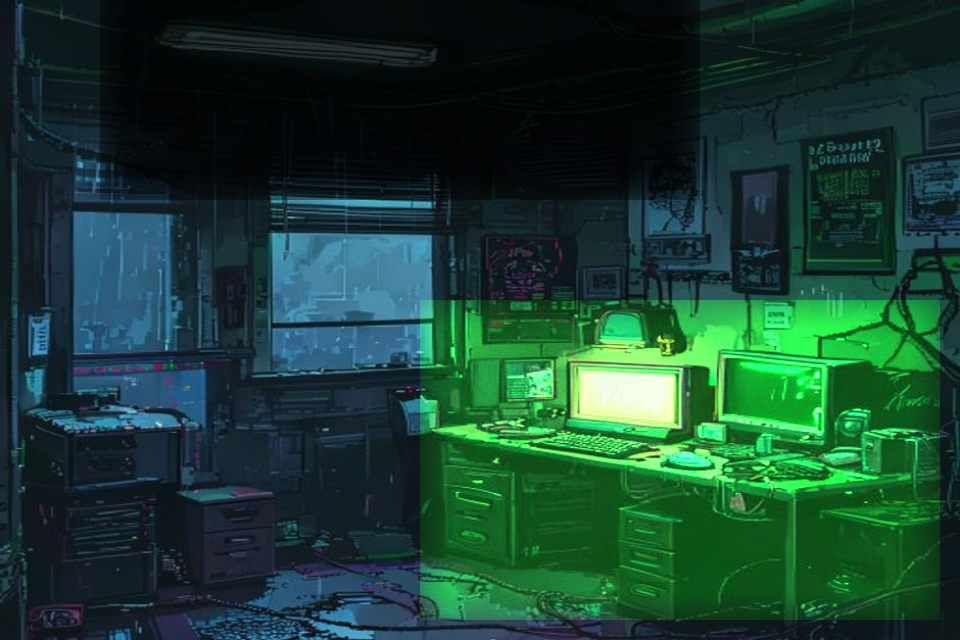
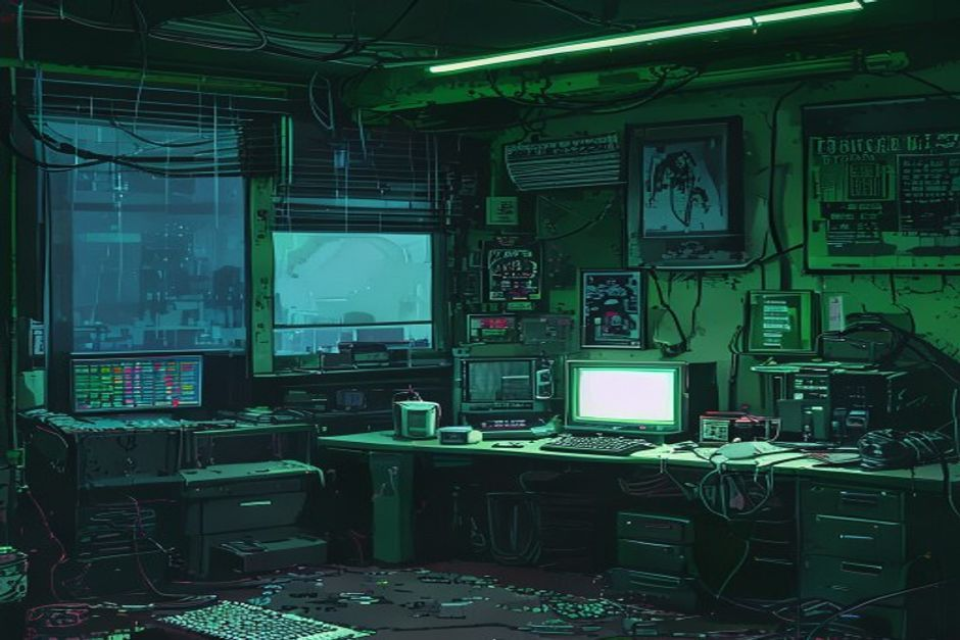
fix: stronger keyframe prompts for apartment AI animation
Old prompts used 'slightly brighter/warmer' — model barely changed anything.
New prompts describe distinct scene states:
- K1: terminal CRT green glow illuminating room
- K2: heavy rain + ceiling light off
- K3: warm ceiling light on + terminal dark

Frame diff now 7-18 (subtle to medium), visible environmental animation.

diff --git a/gen_ai_frames.py b/gen_ai_frames.py
@@ -51,9 +51,12 @@ SCENE_KEYFRAMES = {
         ),
         "keyframes": [
             "",  # K0: base (原始)
-            "terminal screen glowing slightly brighter green, ambient light slightly warmer",  # K1: 终端微亮
-            "rain drops more visible on window glass, slightly blue-tinted light",  # K2: 雨变大
-            "dimmer overall lighting, terminal flickering subtly, cool blue tones",  # K3: 灯暗
+            "bright green CRT glow illuminating the entire desk area, terminal screen fully lit, "
+            "green light reflecting on nearby walls and ceiling, room looks noticeably brighter from screen",  # K1: 终端大亮
+            "heavy rain streaks streaming down the window, water droplets thick and visible, "
+            "ceiling light off the room is darker, only window light and screen glow visible",  # K2: 雨大+灯灭
+            "ceiling light flickering warm orange, terminal screen dark and powered off, "
+            "room lit mainly by overhead warm light, shadows deeper, cozy warm tones",  # K3: 灯亮终端灭
         ],
     },
     "bg_street": {
